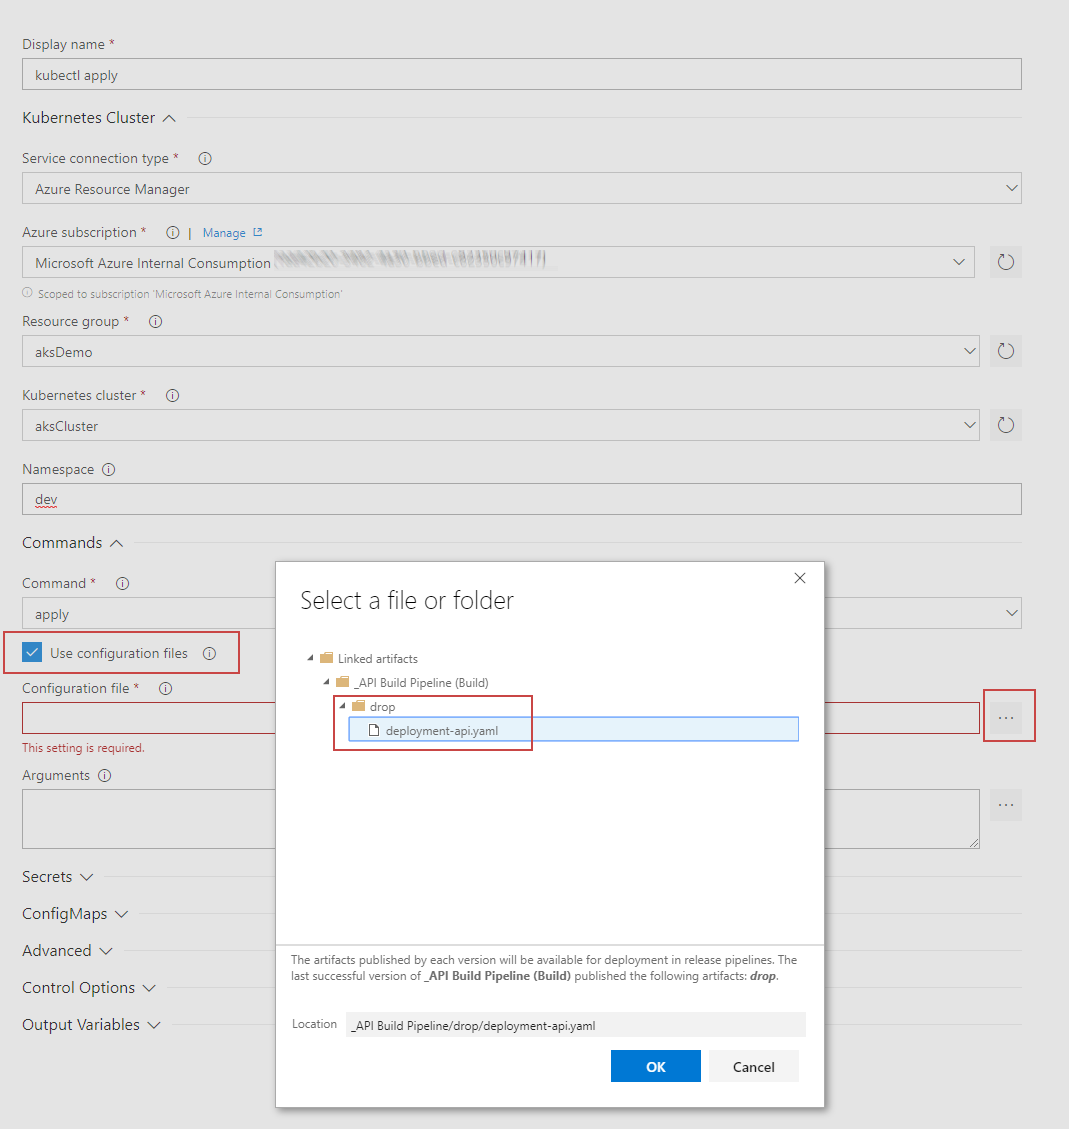
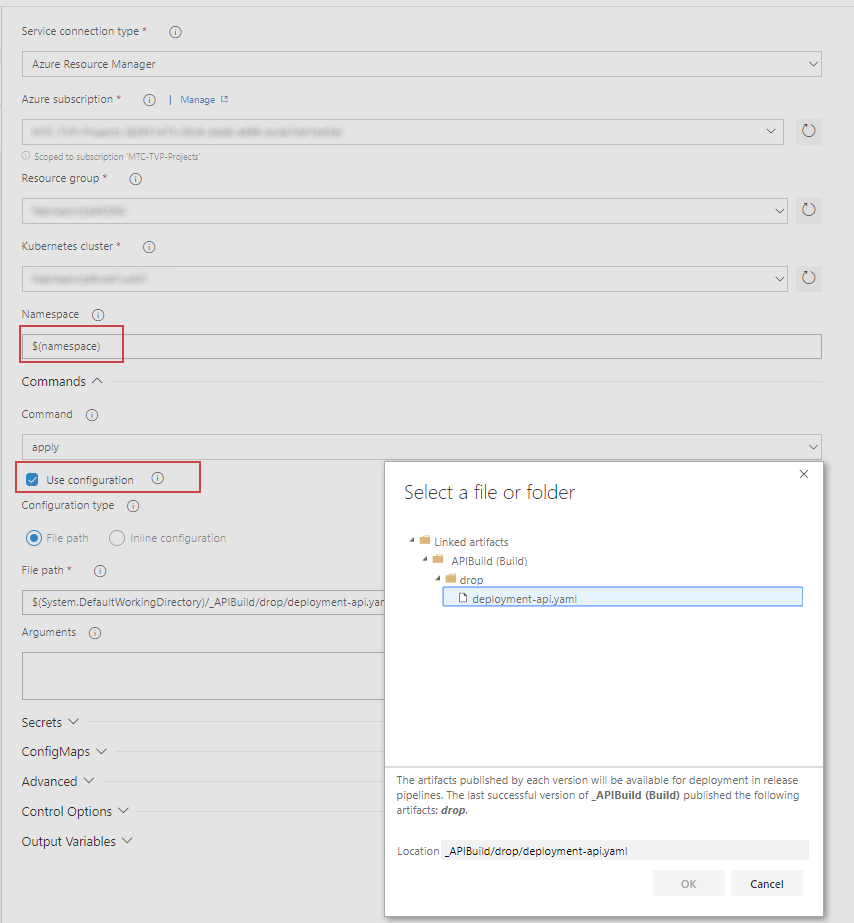
builld and release docs

diff --git a/Documentation/ReleasePipelines/README.md b/Documentation/ReleasePipelines/README.md
@@ -2,7 +2,12 @@
 
 # Release Pipelines
 
-Here we are going to create a release pipeline for the API and the Website which will be triggered from our build pipelines. We can set different config settings per environment.  
+Here we are going to create a release pipeline for the API and the Website which will be triggered from our build pipelines. 
+Essentially these pipelines are using deploying the YAML files from our build artifacts using the Kubernetes CLI as we did manually in the [Working with the Kubernetes CLI Stage](../WorkingWithTheKubernetesCLI)
+
+
+Other than the fact its all automated the main difference here, is that we will change the placeholder values in the configs and YAML templates with variables we set for each stage of the deplpyment (Dev, UAT, Pre-Prod, Prod, etc)
+
 
 ## First install the Replace Tokens addon if you do not already have it
 
@@ -13,9 +18,12 @@ https://marketplace.visualstudio.com/items?itemName=qetza.replacetokens
 
 ## 1. Create New Release and Choose Deploy to Kubernetes Cluster
 
+This will create Stage 1, you can rename this stage to whatever you like, for example Dev, UAT, Pre-Prod, etc
+
 ![kubernetes template](images/newapireleasepipeline.png)
 
  > Once created click on the little pen where it says "New release pipeline" and rename the release to "API Release"
+
 
 ## 2. Select Artifact
 
@@ -35,17 +43,21 @@ https://marketplace.visualstudio.com/items?itemName=qetza.replacetokens
 
 ## 4. Add Variables
 
-For the registry location set the value to your ACR login server uri
+Add two variables
+
+* registrylocation - set the value to your ACR login server uri
+* namespace - set this to ```dev``` and change the scope to the name of your first stage
 
 ![Add Variables](images/addregistryvariable.png)
 
-## 5. Click into the Tasks for Stage 1
+## 5. Click into the Tasks for Dev Stage (Stage 1)
 
 ![Edit Release Tasks](images/editreleasetasks.png)
 
 ## 6. Add Replace Tokens Task
 Click the plus icon next to "Agent Job" to add a new task and search for "replace"
-This addon needs to have been installed - https://marketplace.visualstudio.com/items?itemName=qetza.replacetokens
+
+> This addon needs to have been installed - https://marketplace.visualstudio.com/items?itemName=qetza.replacetokens
 
 In the List of tasks on the left, drag the Replace Tokens to the top
 
@@ -60,7 +72,7 @@ Set the target files to equal
 **/*.xml
 ```
 
-This task will find all files in our artifacts that are YAML, Json or XML and then replace any values that match a pattern ```#{somethingToBeReplaced}#``` with the variables we have set in Step 4
+This task will find all files in our artifacts that are YAML, Json or XML and then replace any values that match a pattern ```#{somethingToBeReplaced}#``` with the variables we have set 
 
 
 ![Replace Tokens Config](images/replacetokens.png)
@@ -70,16 +82,32 @@ This task will find all files in our artifacts that are YAML, Json or XML and th
 1. Choose your subscription from the Azure Subscription drop down menu
 2. Choose the Resource Group that your AKS cluster belongs to in the Resource Group drop down menu
 3. Choose your cluster from the Kubernetes cluster drop down menu
-4. Type ```dev``` into the Namespace (you should have already created a dev namespace during the creating your environment section)
+4. Type ```$(namespace)``` into the Namespace (this will be replaced by the variable for this stage which is 'dev'. You should have already have created a dev namespace during the creating your environment section)
 5. Tick the box labelled "use configuration files" and then select the deployment-api.yaml file
 
 ![Kubernetes Apply Command](images/apiapplycommand.png)
 
 ## 8. Save the changes made to your release 
 
-## 9. Trigger a new Release
+## 9. Clone this Stage
+
+Click on the 'Pipeline' tab and hove over the dev stage. Two buttons should appear and once will say clone. Click this button. Then rename the new stage to 'Prod Stage'
+
+![Clone](images/clonestage.png)
+
+### 9.1 Set any Scoped variables for the new stage
+
+You should now see that a second namespace variable has been added for the new Prod-Stage.
+Set this to ```prod```
+
+> This means the API will be deployed into the Dev namespace in the first stage of our deployment and the prod namespace in the second stage of our deployment. 
+
+![Clone](images/variable-secondstage.png)
+
+# 10. Save & Trigger a new Release
 
 ![Trigger Release](images/triggerrelease.png)
+
 
 # Create the Website Release
 

diff --git a/Documentation/BuildPipelines/README.md b/Documentation/BuildPipelines/README.md
@@ -18,7 +18,9 @@ Under the templates selection, choose Empty Pipeline.
 
 ## 3. Select Linux Agent Pool
 
-Choose Hosted Linux as the agent pool and rename your Pipeline to ```API-Build-Pipeline```
+Choose 'Hosted Ubuntu' or 'Linux' as the agent pool and rename your Pipeline to ```API-Build-Pipeline``` 
+
+> Dont have spaces in this name
 
 ![Linux Agent](images/linuxagentbuild.png)
 
@@ -85,7 +87,13 @@ Click on the "Tiggers" tab and check the box "Enable continous integration"
 
 ![Enable CI](images/enablebuildci.png)
 
-### 8. Trigger a new build
+## 8. Clear the build number format
+
+Under options make sure the build number format is empty
+
+![build number format](images/buildnumberformat.png)
+
+### 9. Trigger a new build
 
 To test everything is working, click the Save and Queue new build button to trigger a new build. 
 

diff --git a/README.md b/README.md
@@ -42,3 +42,5 @@ Create GitHub issues and we'll respond as quickly as possible
 [Steve Leonard](https://twitter.com/Steve_Leonard)
 
 [Jim Paine](https://twitter.com/jimpaine_io)
+
+[Mark Harrison](https://twitter.com/mrharrison)
